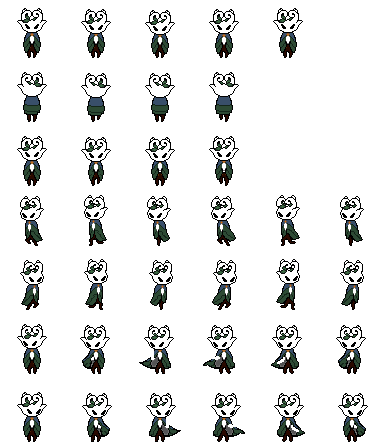
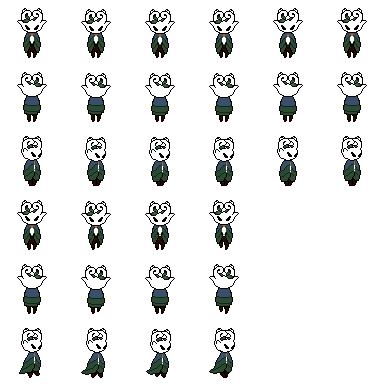
Better animations, player action toggle

diff --git a/Spire/Spire/Player.cpp b/Spire/Spire/Player.cpp
@@ -27,39 +27,80 @@ void Player::animatePlayer()
 	m_frameCounter += m_frameIncrement;
 	column = static_cast<int>(m_frameCounter);
 
-	if (m_playerHeading == NONE)
+	if (m_playerHeading == NORTH)
 	{
-		m_totalFrames = 5;
-		m_frameIncrement = 0.15;
-		row = 0;
-	}
+		m_playerSprite.setScale(1.0f, 1.0f);
 
-	else if (m_playerHeading == NORTH)
-	{
-		m_totalFrames = 4;
-		m_frameIncrement = 0.15;
-		row = 1;
+		if (m_playerAction == STAND)
+		{
+			m_totalFrames = 6;
+			m_frameIncrement = 0.15;
+			row = 1;
+		}
+
+		else if (m_playerAction == WALK)
+		{
+			m_totalFrames = 4;
+			m_frameIncrement = 0.3;
+			row = 4;
+		}
 	}
 
 	else if (m_playerHeading == SOUTH)
 	{
-		m_totalFrames = 4;
-		m_frameIncrement = 0.15;
-		row = 2;
+		m_playerSprite.setScale(1.0f, 1.0f);
+
+		if (m_playerAction == STAND)
+		{
+			m_totalFrames = 6;
+			m_frameIncrement = 0.15;
+			row = 0;
+		}
+
+		else if (m_playerAction == WALK)
+		{
+			m_totalFrames = 4;
+			m_frameIncrement = 0.3;
+			row = 3;
+		}
 	}
 
 	else if (m_playerHeading == EAST)
 	{
-		m_totalFrames = 4;
-		m_frameIncrement = 0.15;
-		row = 4;
+		m_playerSprite.setScale(1.0f, 1.0f);
+
+		if (m_playerAction == STAND)
+		{
+			m_totalFrames = 6;
+			m_frameIncrement = 0.15;
+			row = 2;
+		}
+
+		if (m_playerAction == WALK)
+		{
+			m_totalFrames = 4;
+			m_frameIncrement = 0.3;
+			row = 5;
+		}
 	}
 
 	else if (m_playerHeading == WEST)
 	{
-		m_totalFrames = 4;
-		m_frameIncrement = 0.15;
-		row = 3;
+		m_playerSprite.setScale(-1.0f, 1.0f);
+
+		if (m_playerAction == STAND)
+		{
+			m_totalFrames = 6;
+			m_frameIncrement = 0.15;
+			row = 2;
+		}
+
+		if (m_playerAction == WALK)
+		{
+			m_totalFrames = 4;
+			m_frameIncrement = 0.3;
+			row = 5;
+		}
 	}
 
 	if (column >= m_totalFrames)
@@ -76,14 +117,20 @@ void Player::setHeading(int t_heading)
 	m_playerHeading = t_heading;
 }
 
+void Player::setAction(int t_action)
+{
+	m_playerAction = t_action;
+}
+
 void Player::movePlayerUp()
 {
 	sf::Vector2f pos = m_playerSprite.getPosition();
 
+	m_playerHeading = NORTH;
 
 	if (pos.y > 155)
 	{
-		m_playerHeading = NORTH;
+		m_playerAction = WALK;
 		pos.y -= m_playerSpeed;
 		m_playerSprite.setPosition(pos);
 	}
@@ -97,6 +144,7 @@ void Player::movePlayerDown()
 
 	if (pos.y < SCREEN_HEIGHT)
 	{
+		m_playerAction = WALK;
 		pos.y += m_playerSpeed;
 		m_playerSprite.setPosition(pos);
 	}
@@ -110,6 +158,7 @@ void Player::movePlayerLeft()
 
 	if (pos.x > 16)
 	{
+		m_playerAction = WALK;
 		pos.x -= m_playerSpeed;
 		m_playerSprite.setPosition(pos);
 	}
@@ -123,6 +172,7 @@ void Player::movePlayerRight()
 
 	if (pos.x < SCREEN_WIDTH - 16)
 	{
+		m_playerAction = WALK;
 		pos.x += m_playerSpeed;
 		m_playerSprite.setPosition(pos);
 	}

diff --git a/Spire/Spire/Player.h b/Spire/Spire/Player.h
@@ -18,14 +18,15 @@ private:
 	sf::Sprite m_playerSprite;
 	sf::Vector2f m_playerSpawn{ SCREEN_WIDTH / 2, 235.0f };
 
-	int m_playerHeading = NONE;
+	int m_playerHeading = SOUTH;
+	int m_playerAction = STAND;
 	int m_playerSpeed = 3;
 
 	int column = 0;
 	int row = 0;
-	int m_totalFrames = 5;
+	int m_totalFrames = 6;
 	float m_frameCounter = 0.0f;
-	float m_frameIncrement = 0.3f;
+	float m_frameIncrement = 0.15f;
 
 public:
 
@@ -33,6 +34,7 @@ public:
 
 	void animatePlayer();
 	void setHeading(int t_heading);
+	void setAction(int t_action);
 	void movePlayerUp();
 	void movePlayerDown();
 	void movePlayerLeft();

diff --git a/Spire/Spire/Globals.h b/Spire/Spire/Globals.h
@@ -13,6 +13,12 @@ const int static SOUTHEAST = 6;
 const int static NORTHWEST = 7;
 const int static SOUTHWEST = 8;
 
+// Player Actions
+const int static STAND = 0;
+const int static WALK = 1;
+const int static ATTACK = 2;
+const int static DIE = 3;
+
 // Screen Dimensions
 const int static SCREEN_WIDTH = 480;
 const int static SCREEN_HEIGHT = 270;

diff --git a/Spire/Spire/Game.cpp b/Spire/Spire/Game.cpp
@@ -88,7 +88,7 @@ void Game::processKeyRelease(sf::Event t_event)
 		(sf::Keyboard::Left == t_event.key.code) ||
 		(sf::Keyboard::Right == t_event.key.code))
 	{
-		m_playerOne.setHeading(NONE);
+		m_playerOne.setAction(STAND);
 	}
 }
 
